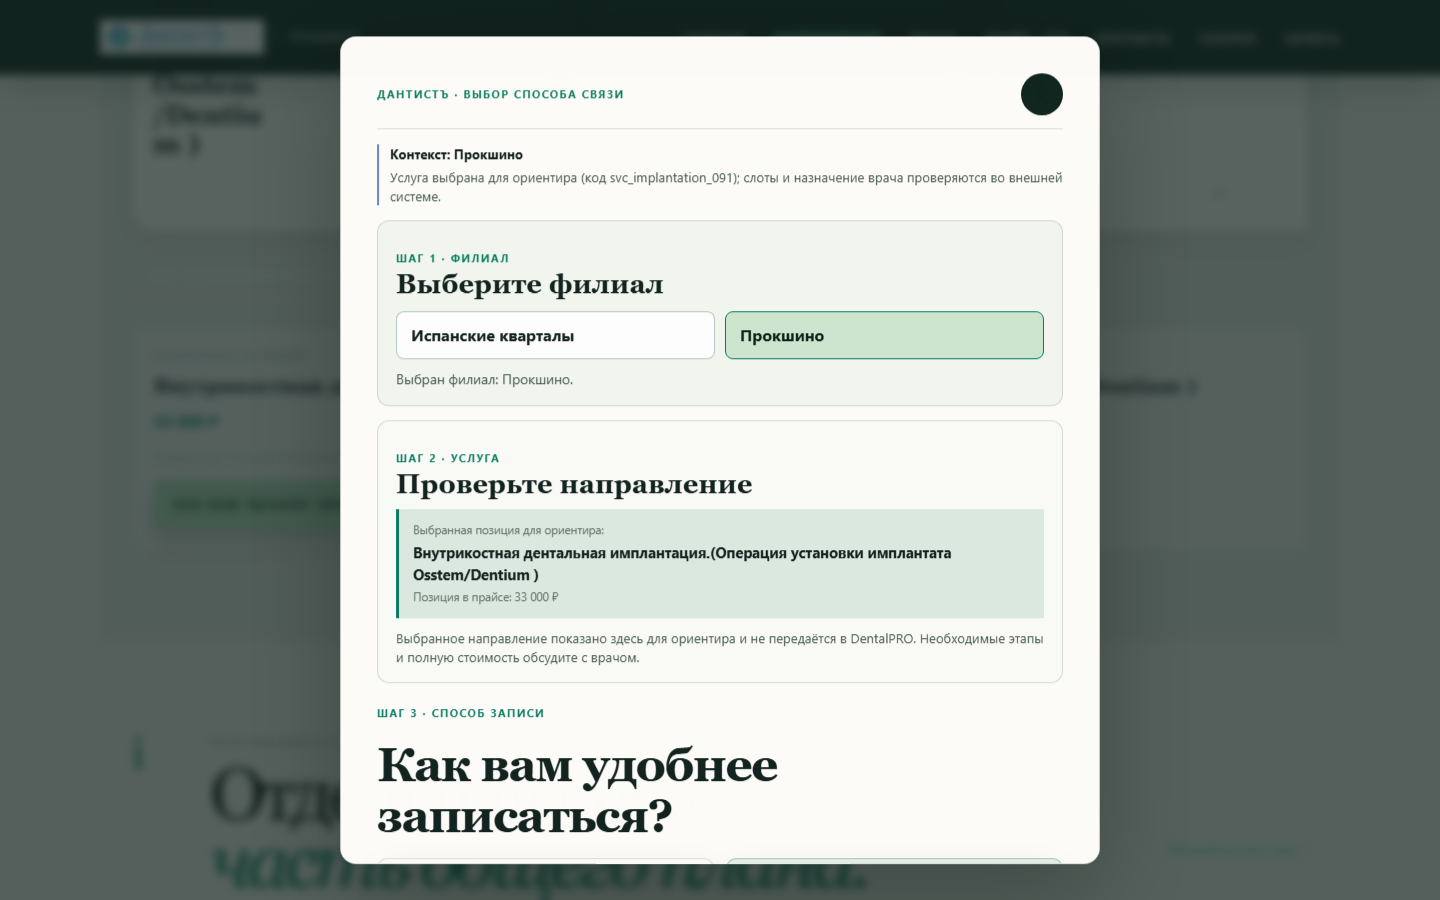
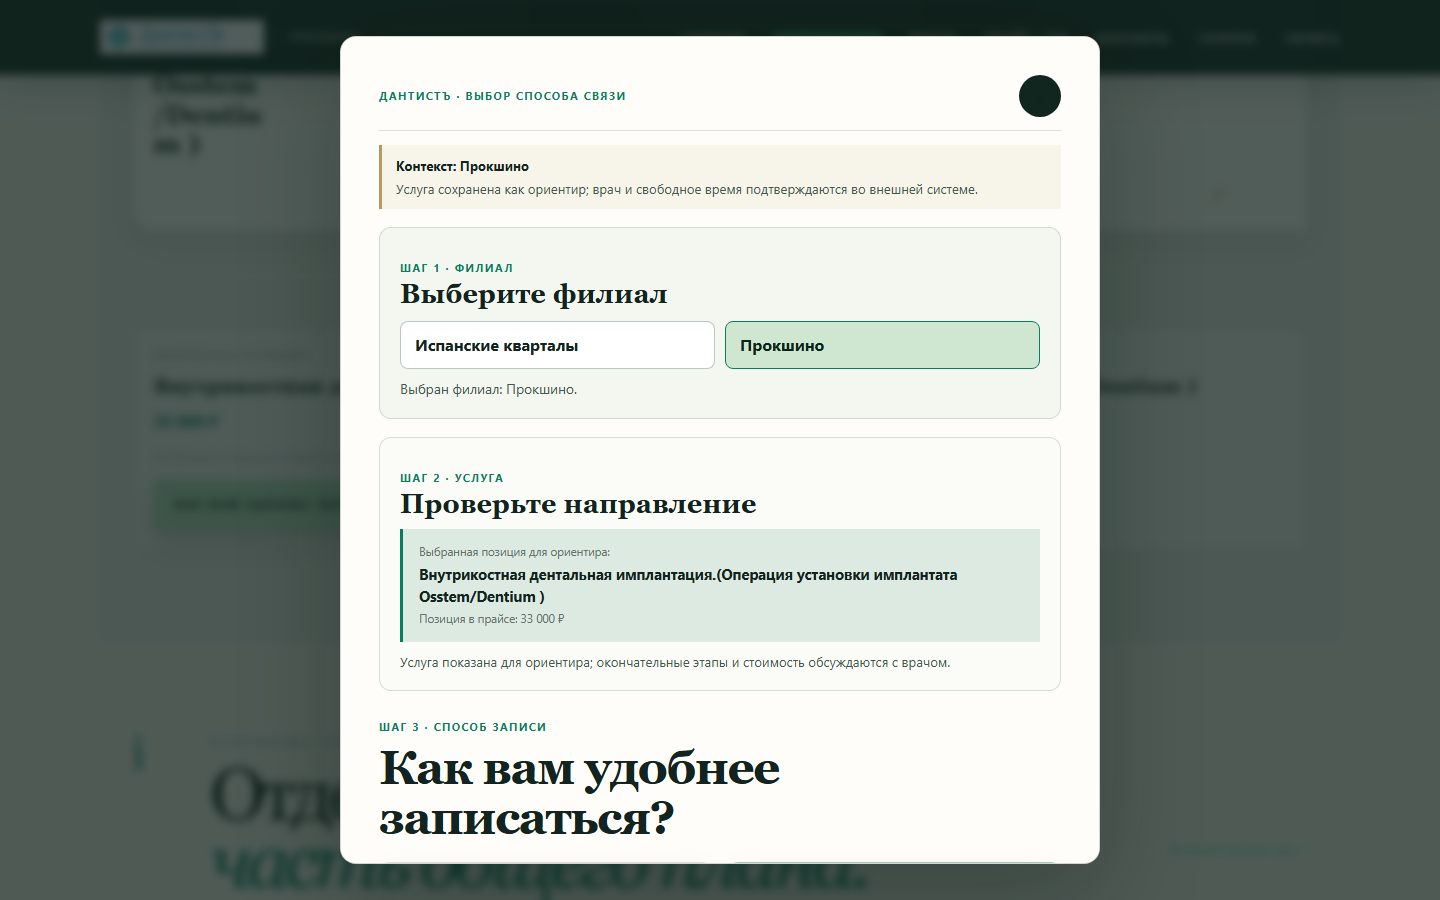
fix(atlas): polish dentalpro booking flow

diff --git a/atlas-v4-1/assets/atlas-4-1.js b/atlas-v4-1/assets/atlas-4-1.js
@@ -84,7 +84,7 @@
     const context = document.createElement('div');
     context.className = 'atlas-4-1-booking-context booking-data-note';
     context.setAttribute('role', 'status');
-    context.innerHTML = `<strong>Контекст: ${branchName}</strong><span data-atlas-4-1-service-context>Выбранная услуга будет показана только для ориентира.</span>`;
+    context.innerHTML = `<strong>Контекст: ${branchName}</strong><span data-atlas-4-1-service-context>Услуга будет показана только для ориентира.</span>`;
     const anchor = dialog.querySelector('[data-booking-service]') || dialog.querySelector('.booking-dialog-inner')?.firstElementChild || dialog.firstElementChild;
     const parent = anchor?.parentElement || dialog;
     parent.insertBefore(context, anchor || null);
@@ -99,12 +99,12 @@
       ispanskie: {
         label: 'Испанские кварталы',
         online: false,
-        notice: 'Проверенной онлайн-ссылки DentalPRO для этого филиала в текущей конфигурации нет. Используйте телефон или подтверждённый мессенджер.',
+        notice: 'Онлайн-ссылка филиала не подтверждена. Используйте телефон или мессенджер.',
       },
       prokshino: {
         label: 'Прокшино',
         online: true,
-        notice: 'Официальная страница DentalPRO ведёт в филиал Прокшино. Последняя проверка виджета вернула «Токен не найден», поэтому свободные окна нужно подтвердить во внешней системе.',
+        notice: 'Проверка DentalPRO вернула «Токен не найден». Свободные окна подтвердите во внешней системе или по телефону.',
       },
     };
     const defaultBranch = branches[branch] ? branch : 'prokshino';
@@ -126,9 +126,12 @@
     serviceStep.className = 'atlas-4-1-booking-service-step';
     serviceStep.setAttribute('aria-labelledby', 'atlas-booking-service-title');
     serviceStep.innerHTML = '<div class="atlas-4-1-booking-step-heading"><span class="choice-kicker">ШАГ 2 · УСЛУГА</span><h3 id="atlas-booking-service-title">Проверьте направление</h3></div>'
-      + '<p class="atlas-4-1-booking-service-empty" data-booking-service-empty>Услуга не выбрана на этой странице. Выберите позицию в каталоге или укажите её повторно во внешней системе.</p>';
+      + '<p class="atlas-4-1-booking-service-empty" data-booking-service-empty>Услуга не выбрана. Выберите позицию в каталоге или укажите её во внешней системе.</p>';
     if (serviceSummary) serviceStep.append(serviceSummary);
-    if (serviceNote) serviceStep.append(serviceNote);
+    if (serviceNote) {
+      serviceNote.textContent = 'Услуга показана для ориентира; окончательные этапы и стоимость обсуждаются с врачом.';
+      serviceStep.append(serviceNote);
+    }
 
     const title = choices.querySelector('h2, h3');
     const channelLabel = document.createElement('span');
@@ -164,8 +167,8 @@
       if (kicker) kicker.textContent = config.online ? 'ОНЛАЙН · ФИЛИАЛ ПРОКШИНО' : 'ОНЛАЙН · НЕ ПОДТВЕРЖДЕНО';
       if (heading) heading.textContent = config.online ? 'DentalPRO · Прокшино' : 'Онлайн-запись Испанских кварталов';
       if (description) description.textContent = config.online
-        ? 'Официальная страница записи филиала Прокшино. Свободные окна, врач и услуга подтверждаются только во внешней системе.'
-        : 'Для Испанских кварталов нет подтверждённой ссылки DentalPRO. Используйте телефон или подтверждённый мессенджер.';
+        ? 'Официальная страница записи филиала Прокшино. Врач, услуга и время подтверждаются во внешней системе.'
+        : 'Онлайн-ссылка для Испанских кварталов не подтверждена. Используйте телефон или мессенджер.';
       let warning = card.querySelector('[data-atlas-dentalpro-warning]');
       if (!warning) {
         warning = document.createElement('p');
@@ -247,7 +250,7 @@
       const serviceId = trigger.dataset.serviceId || '';
       try { sessionStorage.setItem('atlas-4-1-booking-context', JSON.stringify({ branch, serviceId })); } catch (_) { /* private mode */ }
       const context = document.querySelector('[data-atlas-4-1-service-context]');
-      if (context) context.textContent = serviceId ? `Услуга выбрана для ориентира (код ${serviceId}); слоты и назначение врача проверяются во внешней системе.` : 'Услуга будет выбрана во внешней системе записи.';
+      if (context) context.textContent = serviceId ? 'Услуга сохранена как ориентир; врач и свободное время подтверждаются во внешней системе.' : 'Услуга будет выбрана во внешней системе записи.';
     }, true);
   }
 

diff --git a/atlas-v4-1/assets/atlas-4-1.css b/atlas-v4-1/assets/atlas-4-1.css
@@ -1869,6 +1869,118 @@ body[data-atlas-version="4-1"].atlas-4-1-refined .booking-dialog .dialog-notice-
   }
 }
 
+/* Booking flow polish: calmer rhythm on desktop, compact and readable on phones. */
+body[data-atlas-version="4-1"].atlas-4-1-refined .booking-dialog-inner {
+  padding: clamp(24px, 3.2vw, 38px);
+}
+body[data-atlas-version="4-1"].atlas-4-1-refined .atlas-4-1-booking-context {
+  margin: 14px 0 0;
+  padding: 11px 14px;
+  border-left: 3px solid #b39a62;
+  background: #f7f4ea;
+}
+body[data-atlas-version="4-1"].atlas-4-1-refined .atlas-4-1-booking-branch-step,
+body[data-atlas-version="4-1"].atlas-4-1-refined .atlas-4-1-booking-service-step {
+  margin-top: 18px;
+  padding: 19px 20px;
+}
+body[data-atlas-version="4-1"].atlas-4-1-refined .atlas-4-1-booking-service-step .booking-service {
+  padding: 14px 16px;
+}
+body[data-atlas-version="4-1"].atlas-4-1-refined .atlas-4-1-booking-channel-label {
+  margin-top: 28px;
+}
+body[data-atlas-version="4-1"].atlas-4-1-refined .atlas-4-1-booking-channel-label + h2 {
+  margin-top: 8px;
+}
+body[data-atlas-version="4-1"].atlas-4-1-refined .booking-choice-grid {
+  gap: 16px;
+  margin-top: 18px;
+}
+body[data-atlas-version="4-1"].atlas-4-1-refined .booking-choice {
+  padding: 22px;
+  gap: 11px;
+}
+body[data-atlas-version="4-1"].atlas-4-1-refined .booking-choice .button {
+  min-height: 48px;
+}
+
+@media (max-width: 680px) {
+  body[data-atlas-version="4-1"].atlas-4-1-refined .booking-dialog {
+    width: calc(100% - 16px);
+    max-height: calc(100dvh - 16px);
+    margin: 8px auto;
+  }
+  body[data-atlas-version="4-1"].atlas-4-1-refined .booking-dialog-inner {
+    padding: 14px 14px max(20px, env(safe-area-inset-bottom));
+  }
+  body[data-atlas-version="4-1"].atlas-4-1-refined .atlas-4-1-booking-context {
+    margin-top: 10px;
+    padding: 9px 11px;
+  }
+  body[data-atlas-version="4-1"].atlas-4-1-refined .atlas-4-1-booking-context strong,
+  body[data-atlas-version="4-1"].atlas-4-1-refined .atlas-4-1-booking-context span {
+    font-size: .78rem;
+  }
+  body[data-atlas-version="4-1"].atlas-4-1-refined .atlas-4-1-booking-branch-step,
+  body[data-atlas-version="4-1"].atlas-4-1-refined .atlas-4-1-booking-service-step {
+    margin-top: 12px;
+    padding: 14px;
+  }
+  body[data-atlas-version="4-1"].atlas-4-1-refined .atlas-4-1-booking-branch-options {
+    grid-template-columns: repeat(2, minmax(0, 1fr));
+    gap: 8px;
+    margin-top: 10px;
+  }
+  body[data-atlas-version="4-1"].atlas-4-1-refined .atlas-4-1-booking-branch-option {
+    min-height: 52px;
+    padding: 9px 8px;
+    font-size: .86rem;
+    text-align: center;
+  }
+  body[data-atlas-version="4-1"].atlas-4-1-refined .atlas-4-1-booking-service-step .booking-service {
+    padding: 12px 13px;
+  }
+  body[data-atlas-version="4-1"].atlas-4-1-refined .atlas-4-1-booking-service-step .booking-service strong {
+    font-size: .9rem;
+    line-height: 1.35;
+  }
+  body[data-atlas-version="4-1"].atlas-4-1-refined .atlas-4-1-booking-service-step .booking-explainer {
+    margin-top: 8px;
+    font-size: .76rem;
+  }
+  body[data-atlas-version="4-1"].atlas-4-1-refined .atlas-4-1-booking-channel-label {
+    margin-top: 19px;
+  }
+  body[data-atlas-version="4-1"].atlas-4-1-refined .atlas-4-1-booking-channel-label + h2 {
+    margin-top: 6px;
+    font-size: clamp(1.62rem, 7.6vw, 2rem);
+    line-height: 1.04;
+  }
+  body[data-atlas-version="4-1"].atlas-4-1-refined .booking-choice-grid {
+    gap: 10px;
+    margin-top: 13px;
+  }
+  body[data-atlas-version="4-1"].atlas-4-1-refined .booking-choice {
+    padding: 14px;
+    gap: 8px;
+  }
+  body[data-atlas-version="4-1"].atlas-4-1-refined .booking-choice .button {
+    min-height: 46px;
+    font-size: .78rem;
+  }
+  body[data-atlas-version="4-1"].atlas-4-1-refined .atlas-4-1-dentalpro-warning {
+    margin-top: 7px;
+    font-size: .76rem;
+    line-height: 1.35;
+  }
+}
+@media (max-width: 360px) {
+  body[data-atlas-version="4-1"].atlas-4-1-refined .atlas-4-1-booking-branch-options {
+    grid-template-columns: 1fr;
+  }
+}
+
 /* Final visual acceptance cascade — intentionally last so the five reviewer fixes win. */
 body[data-atlas-version="4-1"].atlas-4-1-refined.page-prices .prices-hero {
   padding-block: 22px 42px;

diff --git a/tests/visual/patient-path.spec.js b/tests/visual/patient-path.spec.js
@@ -33,7 +33,7 @@ test('patient path: service → price → doctor → booking', async ({ page }) 
   await expect(page.locator('[data-booking-dialog]')).toContainText('ШАГ 2 · УСЛУГА');
   await expect(page.locator('[data-booking-dialog]')).toContainText('ШАГ 3 · СПОСОБ ЗАПИСИ');
   await expect(page.locator('[data-booking-branch="ispanskie"]')).toHaveAttribute('aria-pressed', 'true');
-  await expect(page.locator('[data-booking-dialog]')).toContainText('Проверенной онлайн-ссылки DentalPRO для этого филиала');
+  await expect(page.locator('[data-booking-dialog]')).toContainText('Онлайн-ссылка филиала не подтверждена');
   await expect(page.locator('[data-booking-dialog] a[href^="tel:"]').first()).toBeVisible();
   await expect(page.locator('[data-booking-dialog] a[aria-disabled="true"]')).toBeVisible();
 
